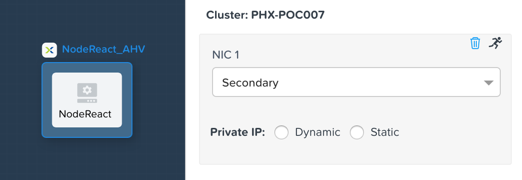
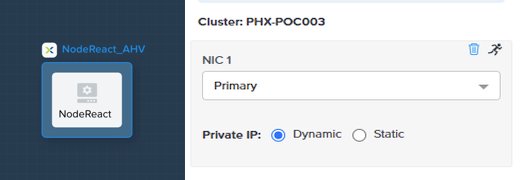
2-8-21.2
Misc. changes including from Grace.

diff --git a/webtier/webtier.rst b/webtier/webtier.rst
@@ -27,12 +27,12 @@ In this lab you will leverage multiple pre-built Calm Blueprints to provision yo
    - Within *Infrastructure* section, click **Select Provider > Nutanix**
    - Click **Select Clusters & Subnets**
    - Select *Your Assigned Cluster* from the dropdown
-   - Within *Subnets for cluster...*, click **Primary**, **Secondary**, and then click **Confirm**
+   - Within *Subnets for cluster...*, click **Primary**, and then click **Confirm**
    - Mark **Primary** as the default network by clicking the :fa:`star`
 
    .. figure:: images/3.png
 
-#. Click **Save & Configure Environment**.
+#. Proceed to the next section.
 
 Provision Fiesta Web Tier
 +++++++++++++++++++++++++
@@ -53,7 +53,7 @@ In this section you'll deploy the web tier of the application and connect it to 
 
    .. figure:: images/31.png
 
-#. In order to launch the blueprint, you must first assign a network to the VM. Select the **NodeReact** Service, and in the *VM Configuration* section on the right, within the *NETWORK ADAPTERS (NICS)* section, select **Secondary** as the **NIC 1** network.
+#. In order to launch the blueprint, you must first assign a network to the VM. Select the **NodeReact** Service, and in the *VM Configuration* section on the right, within the *NETWORK ADAPTERS (NICS)* section, select **Primary** as the **NIC 1** network.
 
    .. figure:: images/32a.png
 

diff --git a/prismops_appmonitoring_lab/prismops_appmonitoring_lab.rst b/prismops_appmonitoring_lab/prismops_appmonitoring_lab.rst
@@ -29,7 +29,7 @@ Prism Ultimate licensing includes the SQL Server monitoring pack, which allows I
 
    .. note::
 
-      Pay close attention to the other features you may have, or will enable in Prism Central in addition to . Please refer to `Prism Central: Resource Requirements for various services enablement on Prism Central <https://portal.nutanix.com/page/documents/kbs/details?targetId=kA00e000000brBgCAI>`_ for resource requirements.
+      Pay close attention to the other features you may have, or will enable in Prism Central in addition to what is outlined in this workshop. Please refer to `Prism Central: Resource Requirements for various services enablement on Prism Central <https://portal.nutanix.com/page/documents/kbs/details?targetId=kA00e000000brBgCAI>`_ for considerations regarding resources.
 
 #. Select the IP address of you MSSQL server VM within the *Microsoft SQL Server Host*. Fill in the rest of the fields with the information listed below. The *Microsoft SQL Server Port* field should be auto-filled with 1433 (standard SQL port). Click on **Test Connection**, and once that is successful, click **Save**.
 

diff --git a/labsetup/labsetup.rst b/labsetup/labsetup.rst
@@ -37,7 +37,7 @@ Nutanix Era provides DBaaS for your Enterprise Cloud. Leveraging the Nutanix Ent
 Configuring a Project
 +++++++++++++++++++++
 
-In this lab you will leverage multiple pre-built Calm Blueprints to provision your applications...
+In this lab you will leverage multiple pre-built Calm Blueprints to provision your applications.
 
 #. In **Prism Central**, select :fa:`bars` **> Services > Calm**.\
 
@@ -60,7 +60,7 @@ In this lab you will leverage multiple pre-built Calm Blueprints to provision yo
 
    .. figure:: images/3.png
 
-#. Click **Save & Configure Environment**.
+#. Proceed to the next section.
 
 ..  Deploying a Windows Tools VM
   ++++++++++++++++++++++++++++

diff --git a/deploy_mssql_era/deploy_mssql_era.rst b/deploy_mssql_era/deploy_mssql_era.rst
@@ -84,7 +84,7 @@ You've completed all the one time operations required to be able to provision an
 
 #. Click **Provision** to begin creating your new database server VM and **fiesta** database.
 
-#. Select **Operations** from the dropdown menu to monitor the provisioning. This process should take approximately 20 minutes.
+#. Select **Operations** from the dropdown menu to monitor the provisioning. This process should take between 20-60 minutes.
 
    .. figure:: images/22.png
 
